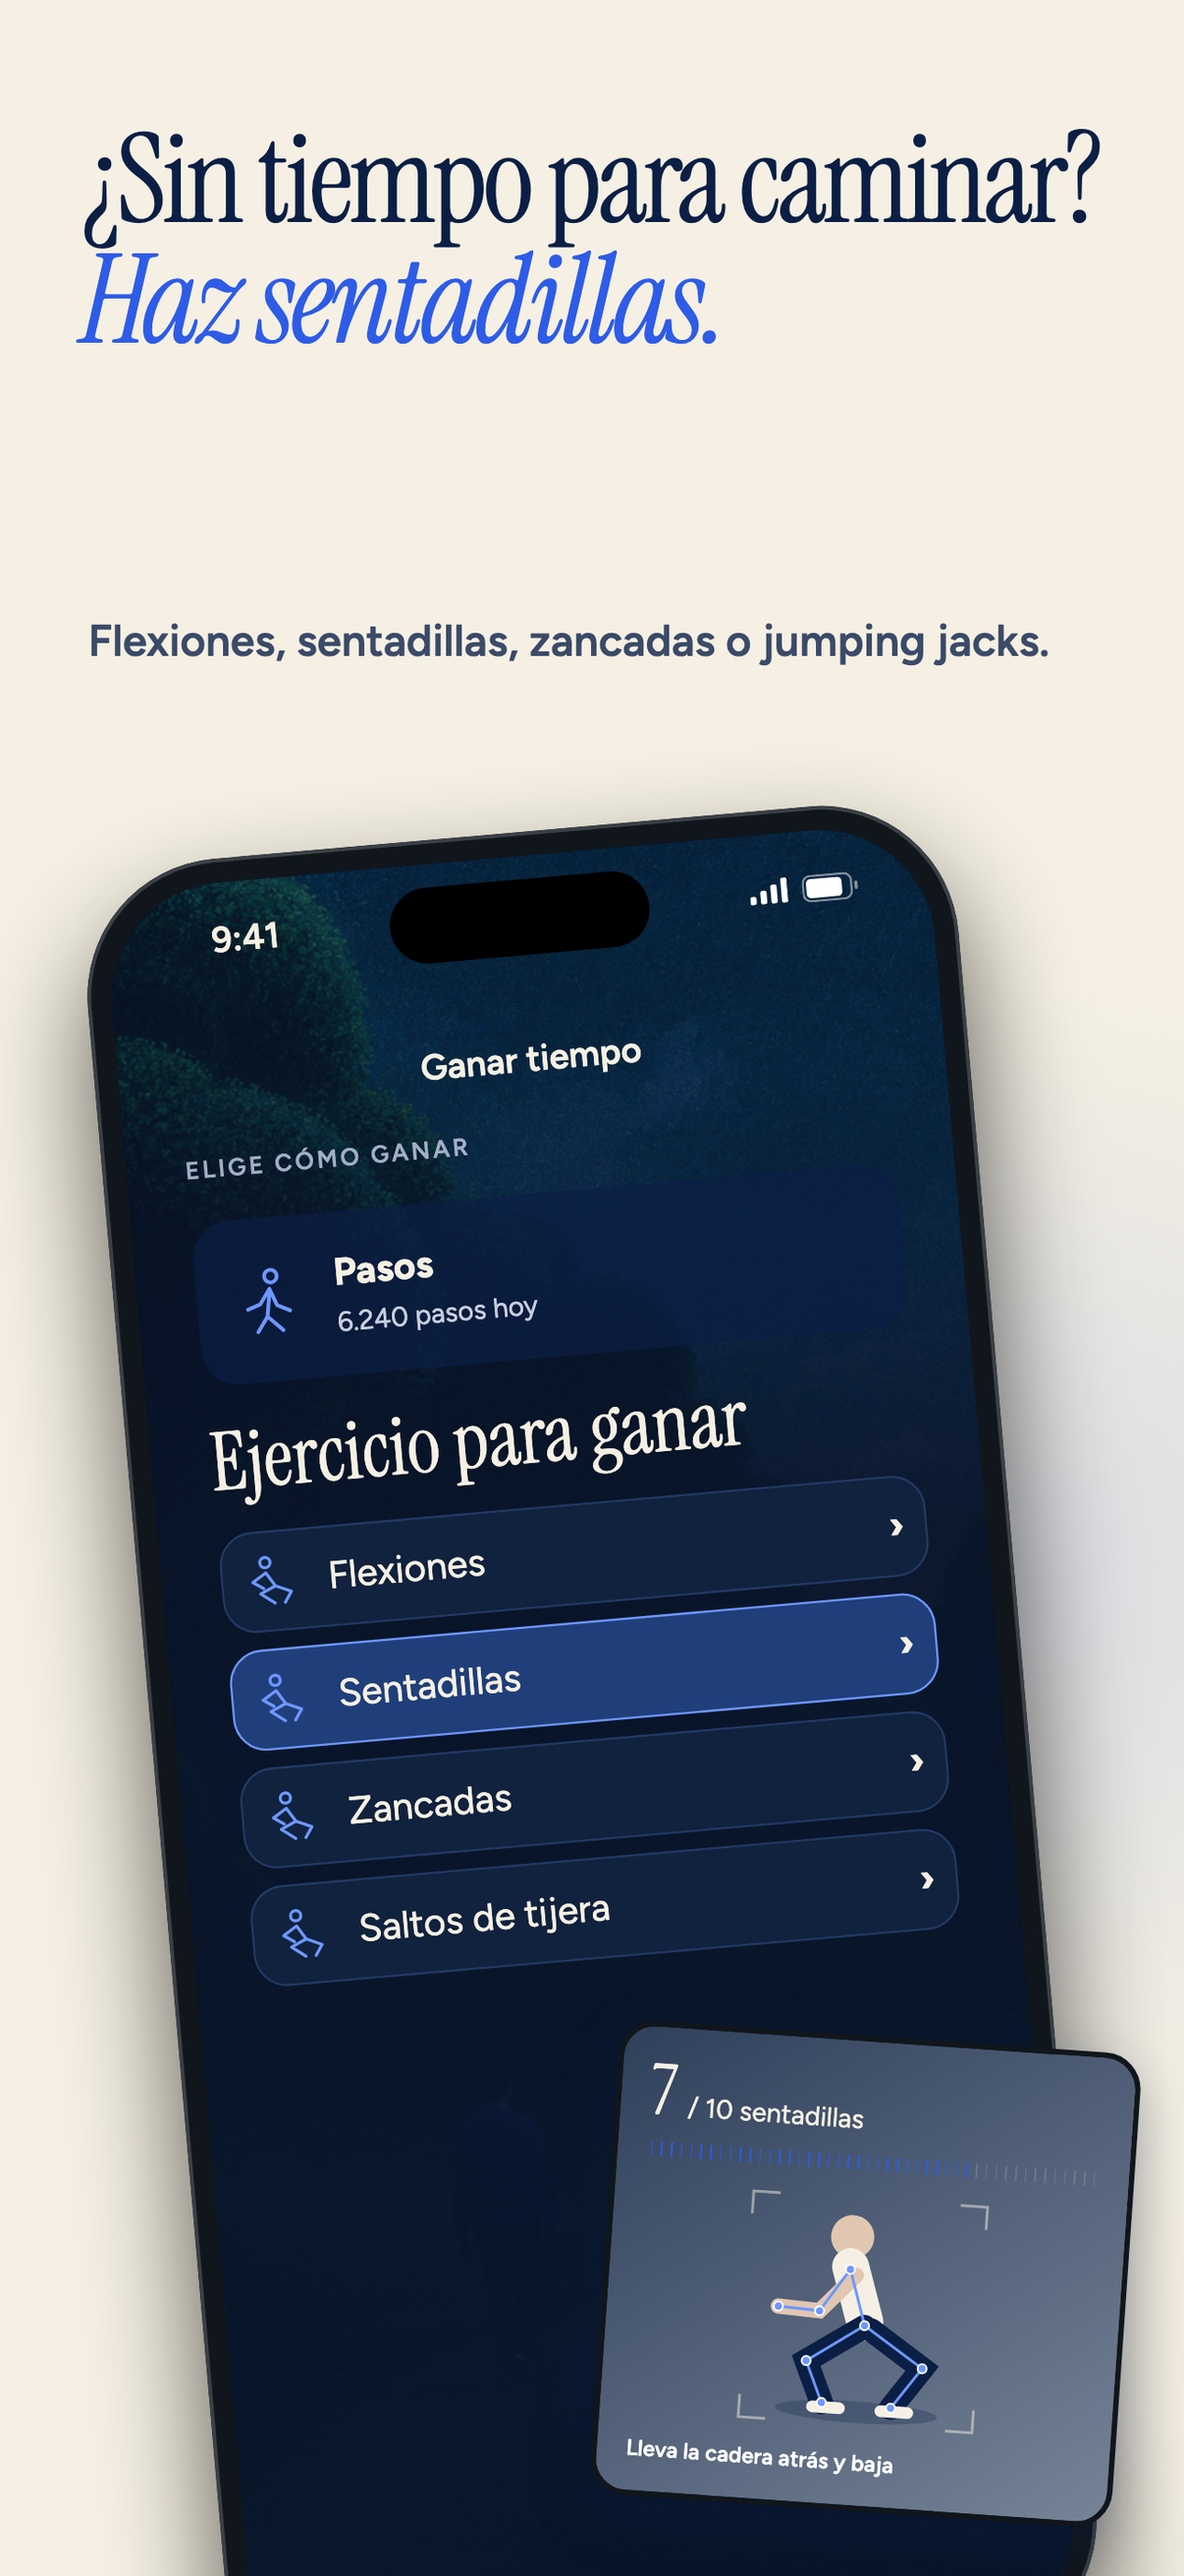
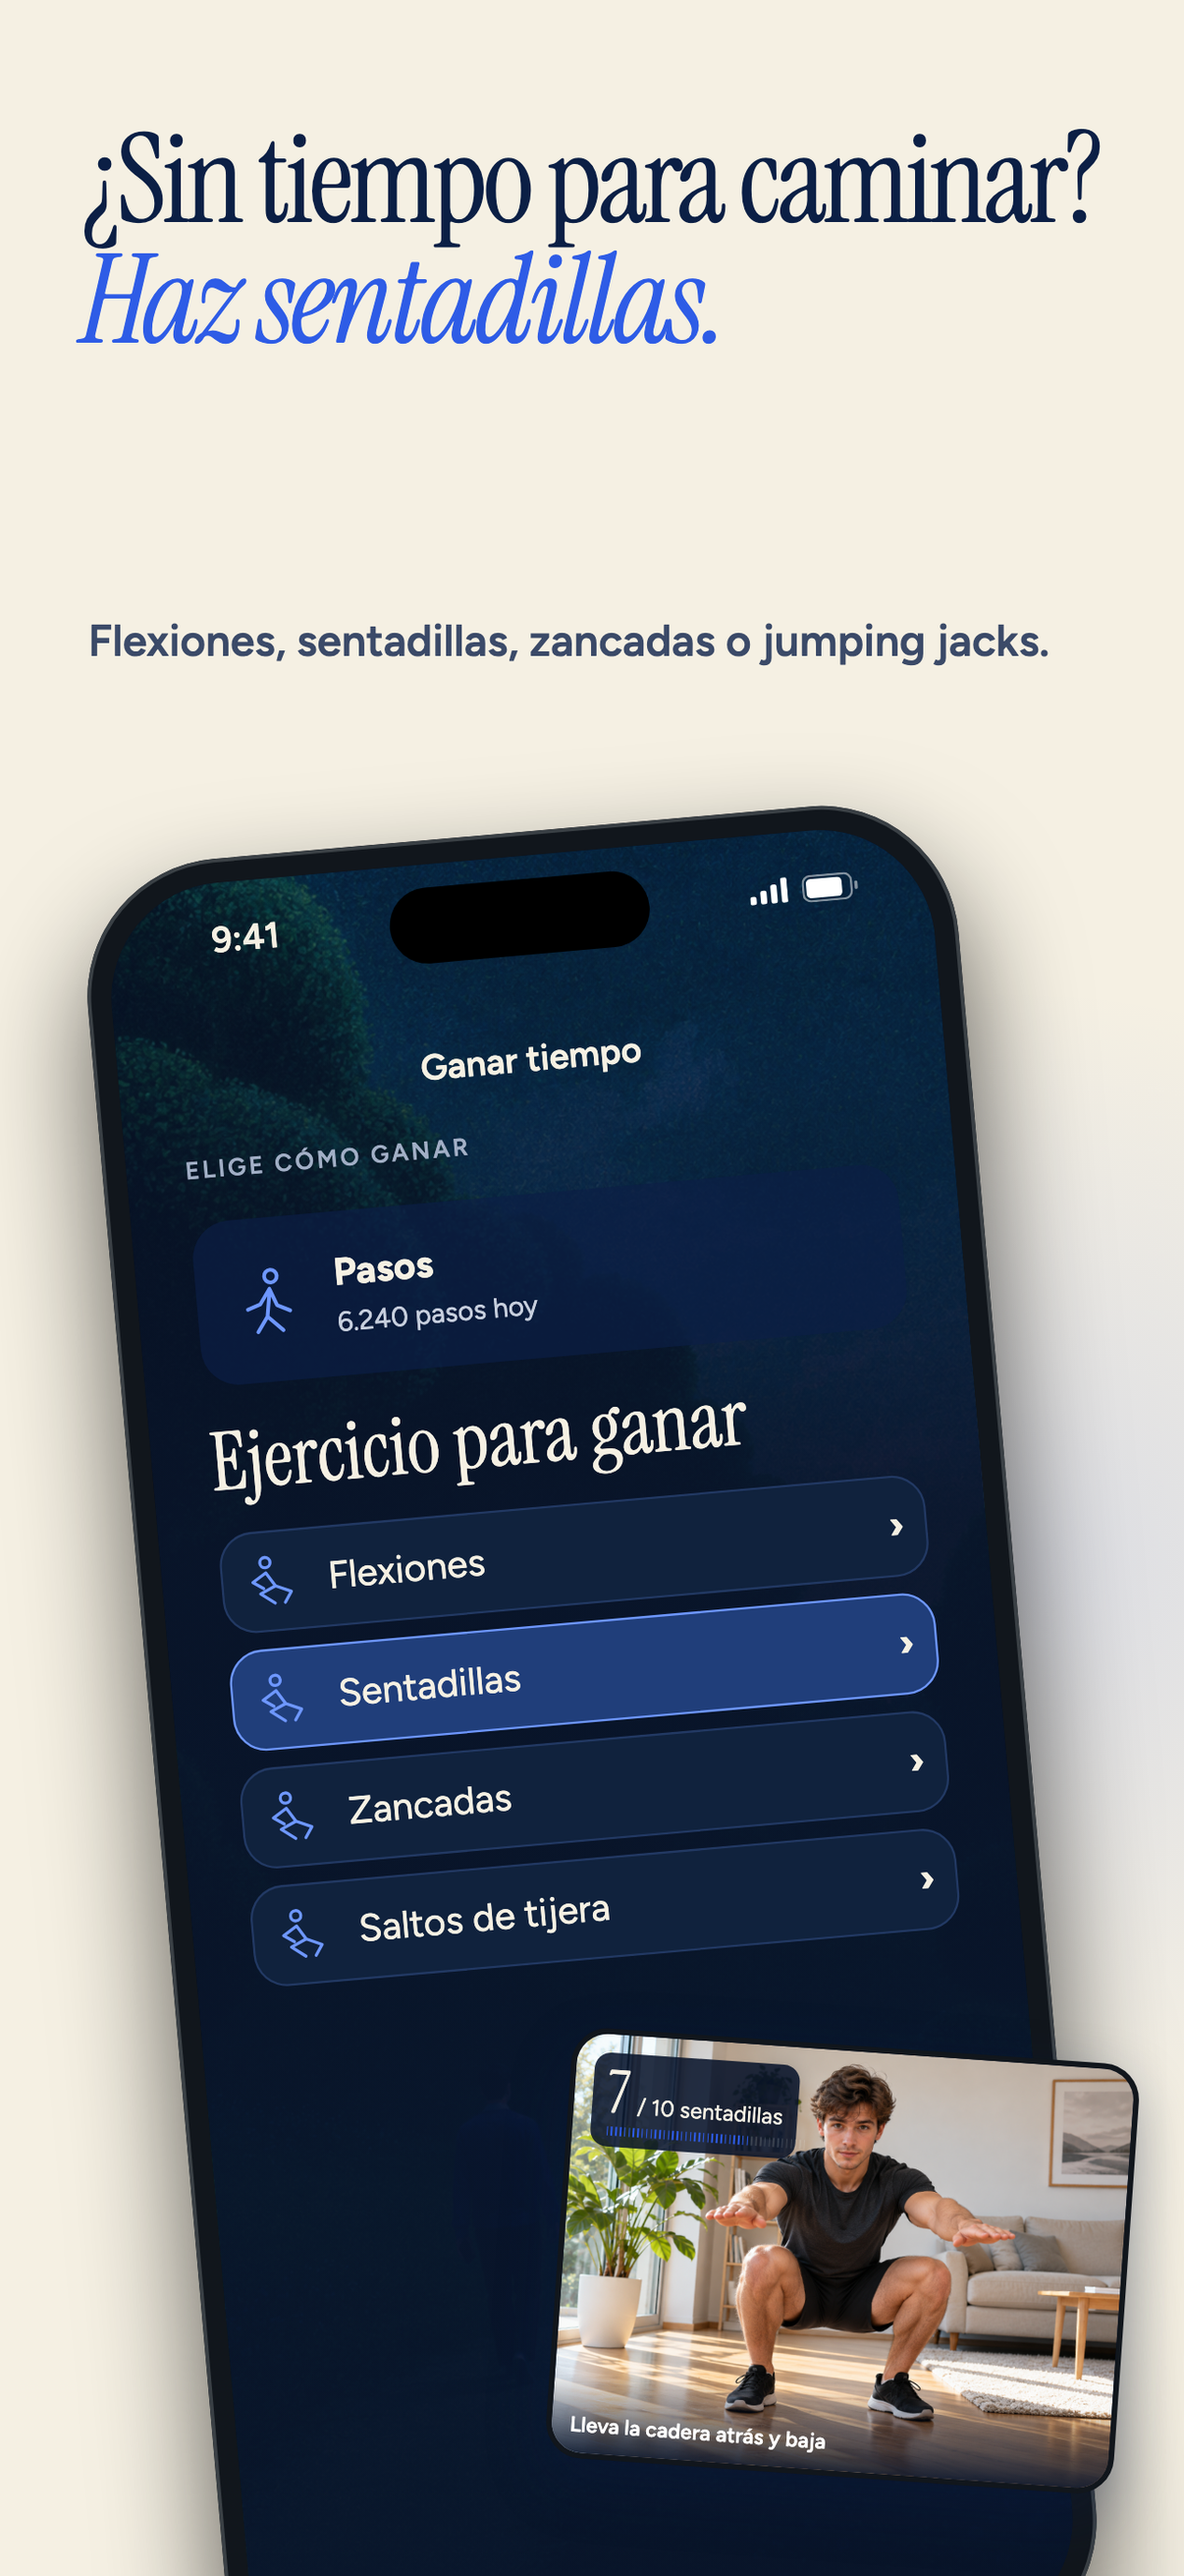
Use photorealistic squat preview in screenshot four

Changed region(s): [[0.4602, 0.7723, 0.9818, 0.9886]]

diff --git a/marketing/app-store-screenshots/src/04-exercises.html b/marketing/app-store-screenshots/src/04-exercises.html
@@ -10,12 +10,13 @@
   .exercise-row.selected{border-color:#6e97ff;background:#203e7a}
   .exercise-row svg{width:26px;height:26px;color:var(--cobalt-text)}
   .exercise-row b{margin-left:auto}
-  .camera-inset{position:absolute;right:62px;top:2210px;width:570px;padding:32px;border-radius:40px;background:linear-gradient(145deg,#2f405b,#768397);border:6px solid #11161c;box-shadow:0 25px 65px #0b1f4555;transform:rotate(4deg)}
-  .camera-count{display:flex;align-items:baseline;gap:14px}
-  .camera-count b{font:76px/1 "Instrument Serif"}
-  .camera-count span{font-size:29px}
-  .squat-pose{display:block;height:275px;width:100%}
-  .camera-inset p{font-size:24px;font-weight:600;color:#fff;margin-top:12px}</style></head>
+  .camera-inset{position:absolute;right:62px;top:2220px;width:620px;overflow:hidden;border-radius:40px;background:#09152b;border:6px solid #11161c;box-shadow:0 25px 65px #0b1f4555;transform:rotate(4deg)}
+  .camera-count{position:absolute;top:20px;left:20px;z-index:1;display:flex;align-items:baseline;gap:10px;padding:12px 16px 26px;background:rgba(9,21,43,.88);border-radius:18px}
+  .camera-count b{font:64px/1 "Instrument Serif"}
+  .camera-count span{font-size:24px}
+  .squat-photo{display:block;width:100%;height:auto}
+  .camera-inset .ticks{position:absolute;left:36px;top:100px;width:220px;z-index:2}
+  .camera-inset p{position:absolute;bottom:0;left:0;right:0;padding:42px 20px 16px;background:linear-gradient(transparent,rgba(9,21,43,.9));font-size:23px;line-height:1.2;font-weight:600;color:#fff;margin:0}</style></head>
 <body class=""><div class="bg"></div><div class="headline">No time to walk?<br><em>Squat it out.</em></div><div class="sub">Push-ups, squats, lunges or jumping jacks.</div>
-<div class="phone"><div class="screen"><div class="pt"><div class="scene" style="background-image:url('../../../App/Resources/Assets.xcassets/Scenes/earn-path.imageset/earn-path.png')"></div><div class="earn-shade"></div><div class="new-ui"><div class="nav-title">Earn time</div><div class="eyebrow">Choose how to earn</div><div class="step-rule"><svg class="line-icon" viewBox="0 0 32 32" fill="none" stroke="currentColor" stroke-width="1.8" stroke-linecap="round" stroke-linejoin="round"><circle cx="18" cy="5" r="3"/><path d="m17 11-5 7-6 2m11-9 3 8 6 3m-9-10-2 12-5 7m5-7 7 7"/></svg><div><b>Steps</b><p>6,240 steps today</p></div></div><h1>Exercise to Earn</h1><div class="exercise-list"><div class="exercise-row"><svg class="line-icon" viewBox="0 0 32 32" fill="none" stroke="currentColor" stroke-width="1.8" stroke-linecap="round" stroke-linejoin="round"><circle cx="13" cy="5" r="3"/><path d="m13 11 5 8-9 4 8 6m1-10 9 4-4 6m-10-18-8 5 6 4"/></svg><span>Push-ups</span><b>›</b></div><div class="exercise-row selected"><svg class="line-icon" viewBox="0 0 32 32" fill="none" stroke="currentColor" stroke-width="1.8" stroke-linecap="round" stroke-linejoin="round"><circle cx="13" cy="5" r="3"/><path d="m13 11 5 8-9 4 8 6m1-10 9 4-4 6m-10-18-8 5 6 4"/></svg><span>Squats</span><b>›</b></div><div class="exercise-row"><svg class="line-icon" viewBox="0 0 32 32" fill="none" stroke="currentColor" stroke-width="1.8" stroke-linecap="round" stroke-linejoin="round"><circle cx="13" cy="5" r="3"/><path d="m13 11 5 8-9 4 8 6m1-10 9 4-4 6m-10-18-8 5 6 4"/></svg><span>Lunges</span><b>›</b></div><div class="exercise-row"><svg class="line-icon" viewBox="0 0 32 32" fill="none" stroke="currentColor" stroke-width="1.8" stroke-linecap="round" stroke-linejoin="round"><circle cx="13" cy="5" r="3"/><path d="m13 11 5 8-9 4 8 6m1-10 9 4-4 6m-10-18-8 5 6 4"/></svg><span>Jumping jacks</span><b>›</b></div></div></div></div></div></div><div class="camera-inset"><div class="camera-count"><b>7</b><span>/ 10 squats</span></div><div class="ticks" data-p=".7" style="height:16px;margin:16px 0"></div><svg class="squat-pose" viewBox="0 0 320 280"><path d="M30 40V15h30M260 15h30v25M30 240v25h30m200 0h30v-25" fill="none" stroke="#f5f0e3" stroke-width="3" opacity=".5"/><ellipse cx="160" cy="251" rx="90" ry="12" fill="#0b1f4544"/><circle cx="143" cy="58" r="24" fill="#e1c7b2"/><path d="m143 91 20 60" stroke="#f5f0e3" stroke-width="41" stroke-linecap="round"/><path d="m150 100-38 42-46-2" fill="none" stroke="#e1c7b2" stroke-width="17" stroke-linecap="round"/><path d="m163 156-62 42 20 45m49-84 60 39-32 46" fill="none" stroke="#0b1f45" stroke-width="26" stroke-linecap="round"/><path d="m111 248 30 0m46 0 30 0" stroke="#f5f0e3" stroke-width="13" stroke-linecap="round"/><path d="m143 94 20 61-62 43 20 45m42-88 67 43-32 46M143 94l-31 48-46-2" fill="none" stroke="#6e97ff" stroke-width="3"/><g fill="#6e97ff" stroke="#fff" stroke-width="2"><circle cx="143" cy="94" r="5"/><circle cx="163" cy="155" r="5"/><circle cx="101" cy="198" r="5"/><circle cx="121" cy="243" r="5"/><circle cx="230" cy="198" r="5"/><circle cx="198" cy="244" r="5"/><circle cx="112" cy="142" r="5"/><circle cx="66" cy="140" r="5"/></g></svg><p>Sit back and lower your hips</p></div>
+<div class="phone"><div class="screen"><div class="pt"><div class="scene" style="background-image:url('../../../App/Resources/Assets.xcassets/Scenes/earn-path.imageset/earn-path.png')"></div><div class="earn-shade"></div><div class="new-ui"><div class="nav-title">Earn time</div><div class="eyebrow">Choose how to earn</div><div class="step-rule"><svg class="line-icon" viewBox="0 0 32 32" fill="none" stroke="currentColor" stroke-width="1.8" stroke-linecap="round" stroke-linejoin="round"><circle cx="18" cy="5" r="3"/><path d="m17 11-5 7-6 2m11-9 3 8 6 3m-9-10-2 12-5 7m5-7 7 7"/></svg><div><b>Steps</b><p>6,240 steps today</p></div></div><h1>Exercise to Earn</h1><div class="exercise-list"><div class="exercise-row"><svg class="line-icon" viewBox="0 0 32 32" fill="none" stroke="currentColor" stroke-width="1.8" stroke-linecap="round" stroke-linejoin="round"><circle cx="13" cy="5" r="3"/><path d="m13 11 5 8-9 4 8 6m1-10 9 4-4 6m-10-18-8 5 6 4"/></svg><span>Push-ups</span><b>›</b></div><div class="exercise-row selected"><svg class="line-icon" viewBox="0 0 32 32" fill="none" stroke="currentColor" stroke-width="1.8" stroke-linecap="round" stroke-linejoin="round"><circle cx="13" cy="5" r="3"/><path d="m13 11 5 8-9 4 8 6m1-10 9 4-4 6m-10-18-8 5 6 4"/></svg><span>Squats</span><b>›</b></div><div class="exercise-row"><svg class="line-icon" viewBox="0 0 32 32" fill="none" stroke="currentColor" stroke-width="1.8" stroke-linecap="round" stroke-linejoin="round"><circle cx="13" cy="5" r="3"/><path d="m13 11 5 8-9 4 8 6m1-10 9 4-4 6m-10-18-8 5 6 4"/></svg><span>Lunges</span><b>›</b></div><div class="exercise-row"><svg class="line-icon" viewBox="0 0 32 32" fill="none" stroke="currentColor" stroke-width="1.8" stroke-linecap="round" stroke-linejoin="round"><circle cx="13" cy="5" r="3"/><path d="m13 11 5 8-9 4 8 6m1-10 9 4-4 6m-10-18-8 5 6 4"/></svg><span>Jumping jacks</span><b>›</b></div></div></div></div></div></div><div class="camera-inset"><div class="camera-count"><b>7</b><span>/ 10 squats</span></div><div class="ticks" data-p=".7" style="height:10px"></div><img class="squat-photo" src="squat.png" alt=""><p>Sit back and lower your hips</p></div>
 <script src="common.js"></script><script src="fit.js"></script></body></html>

diff --git a/marketing/app-store-screenshots/README.md b/marketing/app-store-screenshots/README.md
@@ -13,7 +13,7 @@ Ten frames in English (`en-US`) and neutral *tú* Spanish (`es`, shared by es-ES
 | 01 / `01-hook.html` | Stop doomscrolling. *Earn your screen time.* | Basta de scrollear. *Gana tu tiempo de pantalla.* | Shield with Walk, Push-ups and Squats routes |
 | 02 / `02-pushups.html` | Screen time? *Do 10 push-ups.* | ¿Más pantalla? *Haz 10 flexiones.* | Push-up camera at 7 / 10, on-device and no-video facts |
 | 03 / `03-walk.html` | Every walk *earns you time.* | Cada paso *suma minutos.* | Home balance, steps, earnings and skipped opens |
-| 04 / `04-exercises.html` | No time to walk? *Squat it out.* | ¿Sin tiempo para caminar? *Haz sentadillas.* | Earn exercise list and illustrated squat camera inset |
+| 04 / `04-exercises.html` | No time to walk? *Squat it out.* | ¿Sin tiempo para caminar? *Haz sentadillas.* | Earn exercise list and photorealistic squat camera inset |
 | 05 / `05-lock.html` | Out of time? *Apps lock again.* | ¿Sin tiempo? *Todo se bloquea.* | Shield, 320 steps from the next reward |
 | 06 / `06-sessions.html` | Spend it *on your terms.* | Úsalo *a tu manera.* | 5 / 10 / 15 minute session picker |
 | 07 / `07-schedule.html` | Block when *it matters.* | Bloquea cuando *importa.* | 21:00–07:00 blocking hours with strict mode active |
@@ -27,7 +27,7 @@ Ten frames in English (`en-US`) and neutral *tú* Spanish (`es`, shared by es-ES
 
 **Phone redraws:** sourced from `BlockedAppDetailView`, `EarnTimeView`, `PushupsToEarnView`, `BlockingPolicyView`, `FriendsView`, the dashboard, spending sheet and impact report. Phone copy comes from `Localizable.xcstrings` and `PushupsLocalizable.xcstrings`; see [copy notes](COPY_NOTES.md) for composed text. The hook and exercise list combine existing app elements to follow the brief. Friends shows a weekly squad in progress: the app has squads and a share challenge action, but no separate pending-challenge inbox. Strict mode uses the real active-until and extend rows, not a switch that suggests it can be turned off early.
 
-**Artwork:** the app's illustrated scenes remain in use. `src/pushup.png` is the existing AI-generated push-up photo. The squat inset is an SVG illustration of a camera pose with joint tracking, not an actual camera capture. Badges state only the two requested product facts: on-device counting and no saved video. No hidden earning feature appears.
+**Artwork:** the app's illustrated scenes remain in use. `src/pushup.png` is the existing AI-generated push-up photo. The squat inset uses `src/squat.png`, an AI-generated photorealistic image matched to the push-up photo. Both images depict people; neither is a capture from the live app. Generation details are in [IMAGE_PROMPTS.md](IMAGE_PROMPTS.md). Badges state only the two requested product facts: on-device counting and no saved video. No hidden earning feature appears.
 
 ## Editing and rendering
 

diff --git a/marketing/app-store-screenshots/IMAGE_PROMPTS.md b/marketing/app-store-screenshots/IMAGE_PROMPTS.md
@@ -1,0 +1,19 @@
+# Screenshot image generation
+
+## Squat camera preview
+
+- Asset: `src/squat.png`
+- Tool: built-in `image_gen` (no CLI/API fallback).
+- Reference: `src/pushup.png`, the existing generated photograph used by frame 02.
+- Use: photorealistic person in frame 04's camera inset; HTML supplies the localized counter and guidance. This is generated marketing imagery, not a live camera capture.
+
+Final prompt:
+
+```text
+Use case: photorealistic-natural.
+Asset type: realistic camera preview photograph for a squat-rep counter in an iPhone app marketing screenshot.
+Input image: style and subject reference only. Match the existing push-up image's adult man, charcoal workout shirt, black shorts, bright home living room, wood floor, warm daylight and natural photographic texture.
+Primary request: create a new photograph of this adult man doing a bodyweight squat, at the bottom of the squat, viewed from a slightly front three-quarter angle so the bent knees and hips are clearly visible. Both feet flat on the floor, knees tracking over toes, torso controlled and upright, arms extended forward for balance. Anatomically realistic hands and legs.
+Composition: landscape 4:3 image; entire person from head to shoes clearly visible, centered, occupying most of the frame height with a small margin above and below. The camera is propped at about knee height, like a real phone exercise recording. Face, torso, thighs and shoes all sharp.
+Constraints: photorealistic human, not a drawing, mannequin, avatar, CGI or illustration. No text, UI, numbers, borders, skeleton tracking dots, watermark or logos. No extra people. Natural modest workout clothing.
+```

diff --git a/marketing/app-store-screenshots/COPY_NOTES.md b/marketing/app-store-screenshots/COPY_NOTES.md
@@ -41,7 +41,7 @@ The walking callout now uses **+40 min earned / +40 min ganados**, correcting th
 ## Presentation choices
 
 - The hook combines the blocked-bench scene with the requested three earning routes. It is an editorial composition of existing features, not a pixel-for-pixel native screen.
-- The exercise frame expands the earning entry into the four available exercise names and shows an illustrated squat camera inset. It uses no additional photo or claimed camera capture.
+- The exercise frame expands the earning entry into the four available exercise names and shows a photorealistic squat camera inset using `src/squat.png`. This AI-generated photograph matches the existing push-up image; it is not a claimed live camera capture.
 - The ongoing friend challenge is the real weekly squad model. There is no invented accept/decline workflow or pending-challenge state.
 - The old camera encouragement was replaced with the real `pushups.guidance.lower_body` string, **Lower a little more / Baja un poco más**.
 - The supplied privacy claims are preserved verbatim. Friends does share opted-in progress summaries (including steps and earned minutes), as described by `friends.setup.shares`; review that scope when interpreting the broad privacy marketing copy.
